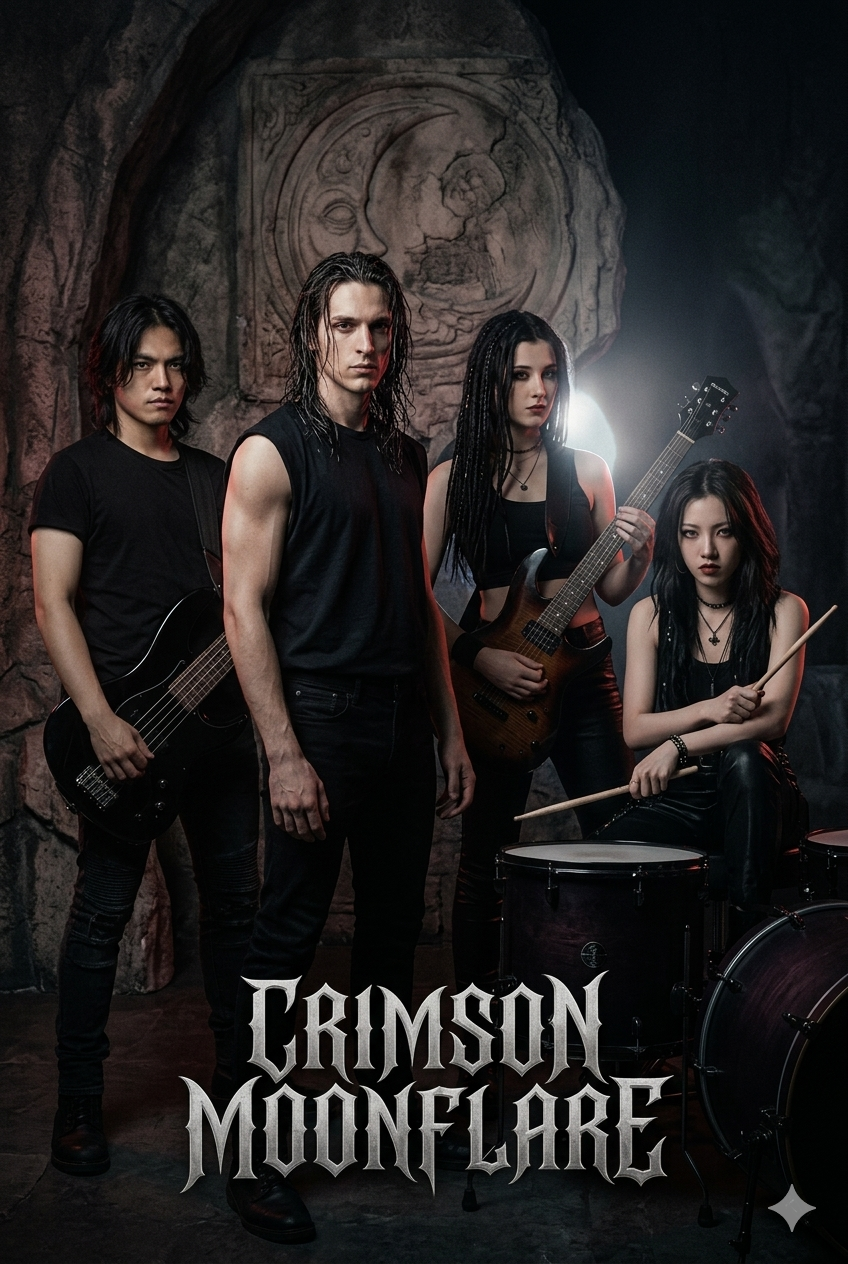
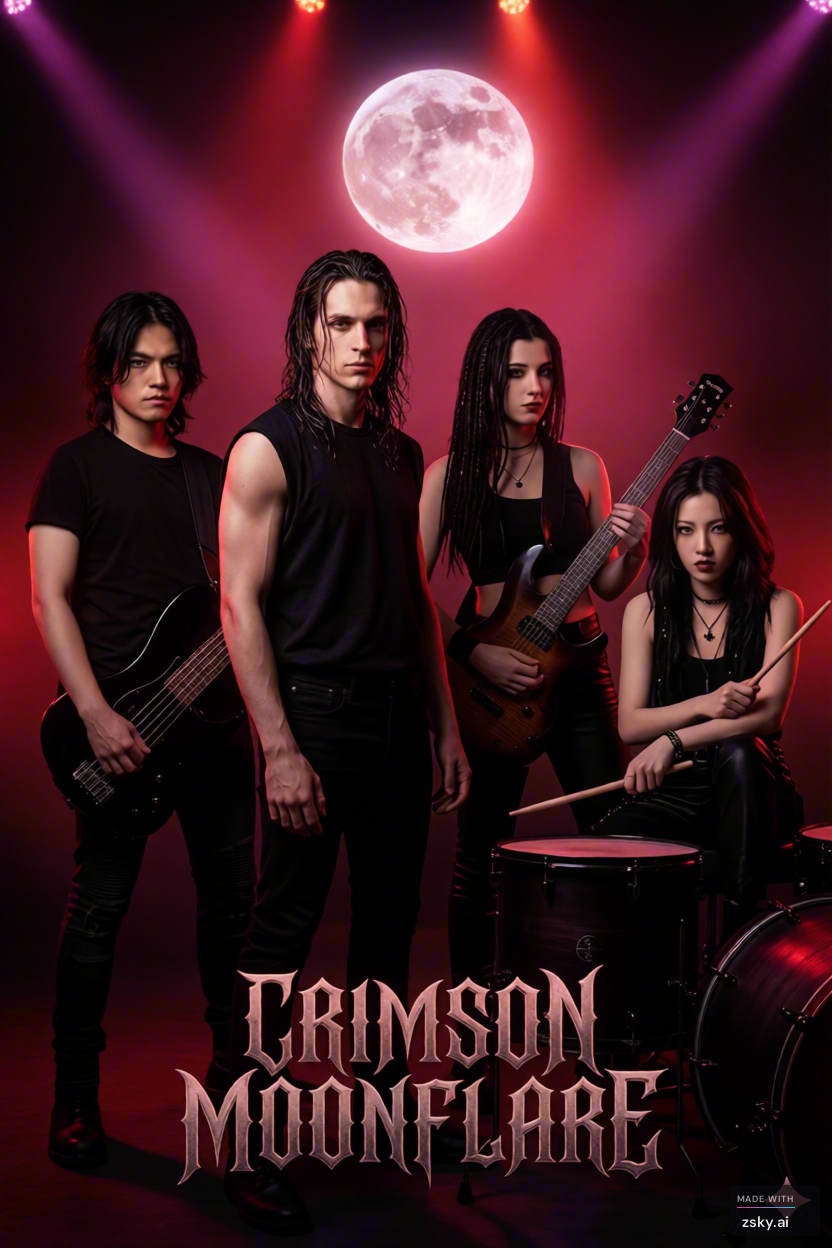
live photo and band photo update

diff --git a/src/app/pages/live/live.css b/src/app/pages/live/live.css
@@ -96,6 +96,15 @@ main {
   overflow: hidden;
 }
 
+.hero-image img {
+  position: absolute;
+  inset: 0;
+  width: 100%;
+  height: 100%;
+  object-fit: cover;
+  object-position: center;
+}
+
 .hero-image::before {
   content: '';
   position: absolute; inset: 0;
@@ -105,7 +114,9 @@ main {
 .hero-image::after {
   content: '';
   position: absolute; inset: 0;
-  background: linear-gradient(to right, rgba(10,6,8,0.75) 0%, transparent 55%, rgba(10,6,8,0.3) 100%);
+  background:
+    linear-gradient(to right, rgba(10,6,8,0.93) 0%, rgba(10,6,8,0.6) 40%, transparent 68%, rgba(10,6,8,0.3) 100%),
+    linear-gradient(to top,   rgba(10,6,8,0.75) 0%, transparent 55%);
 }
 
 .hero-overlay {
@@ -124,6 +135,7 @@ main {
   display: inline-block;
   margin-bottom: 14px;
   text-transform: uppercase;
+  background: rgba(10,6,8,0.55);
 }
 
 .hero-heading {
@@ -144,6 +156,7 @@ main {
   letter-spacing: 0.3em;
   color: var(--ash);
   text-transform: uppercase;
+  text-shadow: 0 1px 6px rgba(0,0,0,0.9);
 }
 
 /* ── SHOWS LIST ── */

diff --git a/src/app/pages/bio/bio.css b/src/app/pages/bio/bio.css
@@ -338,15 +338,27 @@ main {
   gap: 10px;
   position: relative;
   overflow: hidden;
+  isolation: isolate;
 }
 
 .press-image.tall    { aspect-ratio: 2/3; }
 .press-image.square  { aspect-ratio: 1/1; }
 
+.press-image img {
+  position: absolute;
+  inset: 0;
+  width: 100%;
+  height: 100%;
+  object-fit: cover;
+  object-position: center 40%;
+  z-index: 0;
+}
+
 .press-image::before {
   content: '';
   position: absolute; inset: 0;
   background: linear-gradient(180deg, transparent 50%, rgba(10,6,8,0.7) 100%);
+  z-index: 1;
 }
 
 .press-tag {
@@ -357,6 +369,7 @@ main {
   letter-spacing: 0.3em;
   color: rgba(232,213,196,0.5);
   text-transform: uppercase;
+  z-index: 2;
 }
 
 /* ── TABLET ── */

diff --git a/src/app/pages/bio/bio.html b/src/app/pages/bio/bio.html
@@ -153,10 +153,7 @@
     <div class="section-label">Live &amp; Behind the Scenes</div>
     <div class="press-grid">
       <div class="press-image tall">
-        <div class="placeholder-icon">
-          <svg viewBox="0 0 24 24"><rect x="3" y="3" width="18" height="18" rx="1"/><circle cx="8.5" cy="8.5" r="1.5"/><polyline points="21 15 16 10 5 21"/></svg>
-        </div>
-        <span class="placeholder-label">Live shot · Stage</span>
+        <img src="stage-live.png" alt="Crimson Moonflare live performance">
         <span class="press-tag">Live · 2024</span>
       </div>
       <div class="press-col">

diff --git a/src/app/pages/live/live.html b/src/app/pages/live/live.html
@@ -10,10 +10,7 @@
   <!-- TOUR HERO -->
   <div class="tour-hero">
     <div class="hero-image">
-      <div class="placeholder-icon">
-        <svg viewBox="0 0 24 24"><rect x="3" y="3" width="18" height="18" rx="1"/><circle cx="8.5" cy="8.5" r="1.5"/><polyline points="21 15 16 10 5 21"/></svg>
-      </div>
-      <span class="placeholder-label">Live Stage Photo</span>
+      <img src="stage-live.png" alt="Crimson Moonflare live performance">
       <div class="hero-overlay">
         <div class="hero-tag">On Tour Now</div>
         <div class="hero-heading">European Tour <span>2026</span></div>
